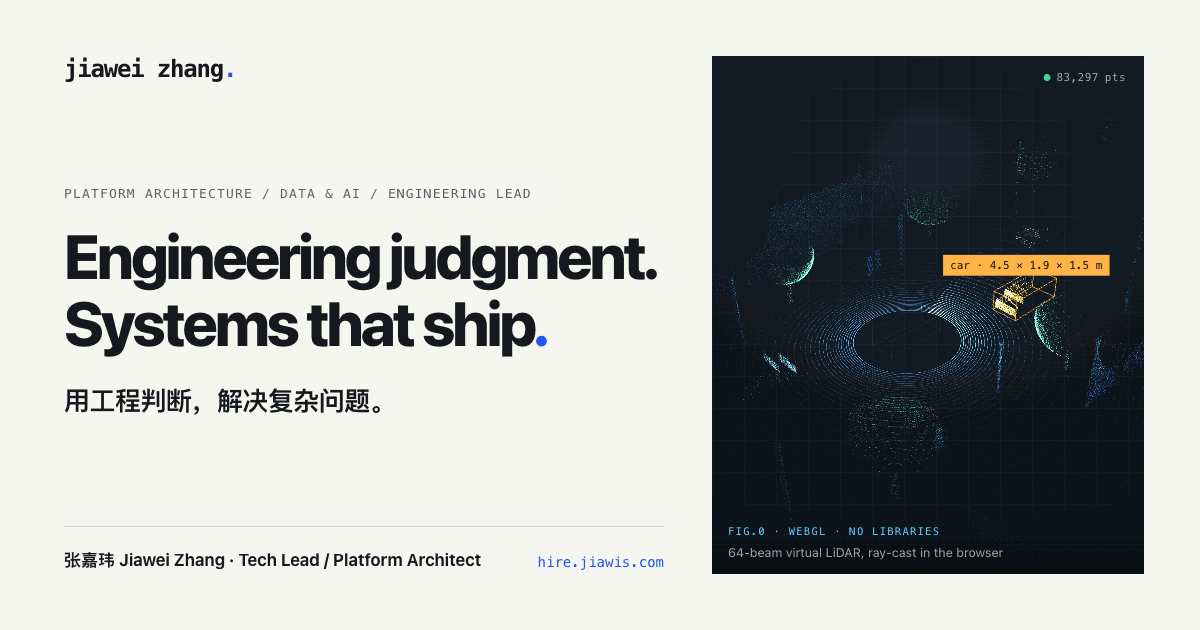
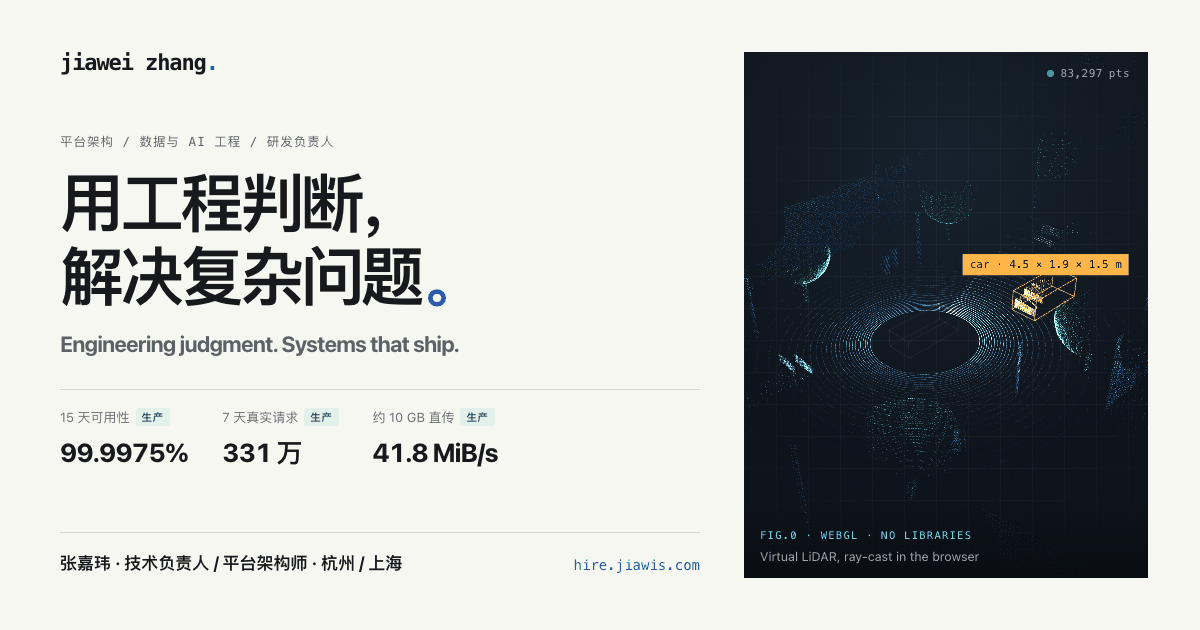
分享卡片：新版预览图（中文为主、三项生产指标、杭州 / 上海），标题与描述改为中英双语，去掉「9 年经验」的说法

diff --git a/index.html b/index.html
@@ -5,22 +5,22 @@
 <meta name="viewport" content="width=device-width, initial-scale=1">
 <meta name="theme-color" content="#f7f7f2">
 <title>张嘉玮 Jiawei Zhang — 技术负责人 / 平台架构师</title>
-<meta name="description" content="张嘉玮 Jiawei Zhang，9 年软件工程经验。过去一年从零搭建 SolarSense 数据工程与 AI 平台并送上生产：分布式任务、大包直传与数据版本、GitOps 发布、模型服务与 Agent。">
-<meta property="og:title" content="Jiawei Zhang — Engineering with judgment">
-<meta property="og:description" content="Built an AI data platform from the first commit to production in one year. Case studies, architecture, and the way I work.">
+<meta name="description" content="张嘉玮 Jiawei Zhang，技术负责人 / 平台架构师，杭州 / 上海。从交易系统到数据与 AI 平台；过去一年主导 SolarSense 数据工程与 AI 平台从第一个 commit 到生产：万级任务队列、大包直传与数据版本、GitOps 发布、模型服务与 Agent。">
+<meta property="og:title" content="张嘉玮 Jiawei Zhang — 技术负责人 / 平台架构师">
+<meta property="og:description" content="一年把数据工程与 AI 平台从第一个 commit 送上生产：六个工程案例、架构与验收方法。Built an AI data platform from the first commit to production in one year.">
 <meta property="og:type" content="website">
 <meta property="og:url" content="https://hire.jiawis.com/">
 <meta property="og:site_name" content="Jiawei Zhang">
 <meta property="og:locale" content="zh_CN">
 <meta property="og:locale:alternate" content="en_US">
-<meta property="og:image" content="https://hire.jiawis.com/assets/og.png">
+<meta property="og:image" content="https://hire.jiawis.com/assets/og.png?v=2">
 <meta property="og:image:width" content="1200">
 <meta property="og:image:height" content="630">
-<meta property="og:image:alt" content="Jiawei Zhang: Engineering judgment. Systems that ship. Beside it, a WebGL LiDAR point cloud with a 3D annotation box.">
+<meta property="og:image:alt" content="张嘉玮 Jiawei Zhang：用工程判断，解决复杂问题。三个生产指标：15 天可用性 99.9975%，7 天真实请求 331 万，约 10 GB 直传 41.8 MiB/s；右侧是一段 WebGL 激光雷达点云与 3D 标注框。">
 <meta name="twitter:card" content="summary_large_image">
-<meta name="twitter:title" content="Jiawei Zhang — Engineering with judgment">
-<meta name="twitter:description" content="Built an AI data platform from the first commit to production in one year. Case studies, architecture, and the way I work.">
-<meta name="twitter:image" content="https://hire.jiawis.com/assets/og.png">
+<meta name="twitter:title" content="张嘉玮 Jiawei Zhang — 技术负责人 / 平台架构师">
+<meta name="twitter:description" content="一年把数据工程与 AI 平台从第一个 commit 送上生产：六个工程案例、架构与验收方法。Built an AI data platform from the first commit to production in one year.">
+<meta name="twitter:image" content="https://hire.jiawis.com/assets/og.png?v=2">
 <link rel="canonical" href="https://hire.jiawis.com/">
 <script type="application/ld+json">
 {
@@ -31,7 +31,7 @@
   "jobTitle": "Tech Lead / Platform Architect",
   "url": "https://hire.jiawis.com/",
   "email": "mailto:zchaw127@gmail.com",
-  "image": "https://hire.jiawis.com/assets/og.png",
+  "image": "https://hire.jiawis.com/assets/og.png?v=2",
   "sameAs": ["https://github.com/chaw1"]
 }
 </script>
